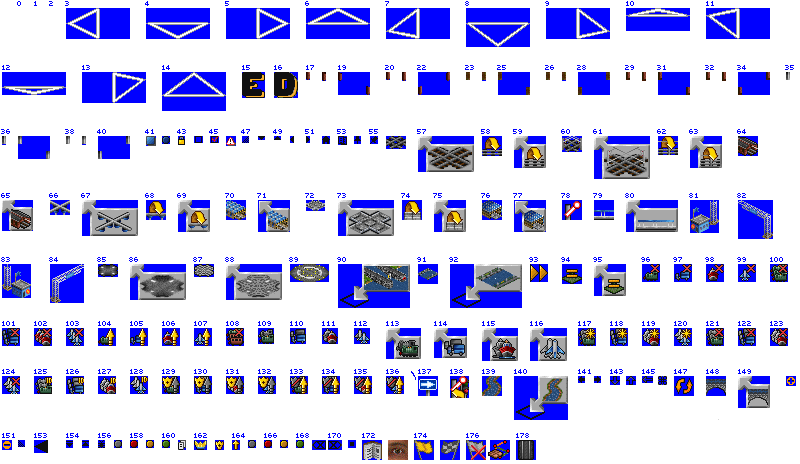
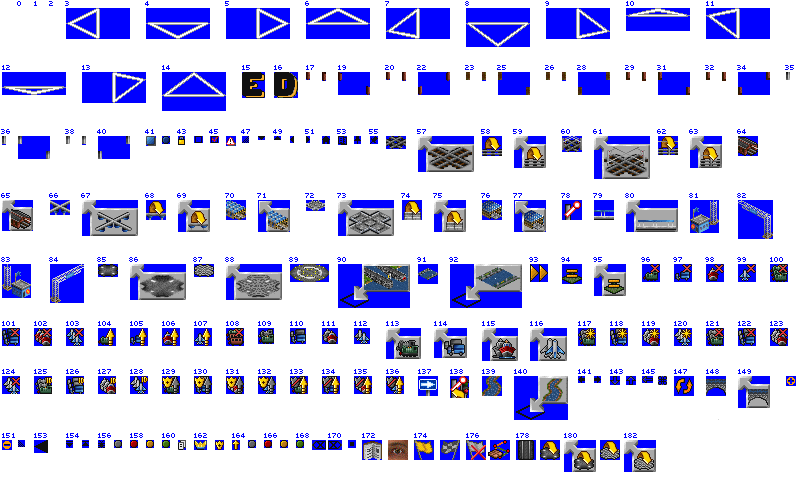
-Add: GUI sprites for convert road/tram (supermop)

diff --git a/src/table/roadtypes.h b/src/table/roadtypes.h
@@ -30,7 +30,7 @@ static const RoadtypeInfo _original_roadtypes[] = {
 			SPR_IMG_BUS_STATION,
 			SPR_IMG_TRUCK_BAY,
 			SPR_IMG_ROAD_TUNNEL,
-			SPR_IMG_QUERY // TODO
+			SPR_IMG_CONVERT_ROAD,
 		},
 
 		{
@@ -41,7 +41,7 @@ static const RoadtypeInfo _original_roadtypes[] = {
 			SPR_CURSOR_BUS_STATION,
 			SPR_CURSOR_TRUCK_STATION,
 			SPR_CURSOR_TUNNEL_RAIL,
-			SPR_IMG_QUERY // TODO
+			SPR_CURSOR_CONVERT_ROAD,
 		},
 
 		/* strings */
@@ -112,7 +112,7 @@ static const RoadtypeInfo _original_roadtypes[] = {
 			SPR_IMG_BUS_STATION,
 			SPR_IMG_TRUCK_BAY,
 			SPR_IMG_ROAD_TUNNEL,
-			SPR_IMG_QUERY // TODO
+			SPR_IMG_CONVERT_ROAD,
 		},
 
 		{
@@ -123,7 +123,7 @@ static const RoadtypeInfo _original_roadtypes[] = {
 			SPR_CURSOR_BUS_STATION,
 			SPR_CURSOR_TRUCK_STATION,
 			SPR_CURSOR_TUNNEL_RAIL,
-			SPR_IMG_QUERY // TODO
+			SPR_CURSOR_CONVERT_ROAD,
 		},
 
 		/* strings */
@@ -197,7 +197,7 @@ static const RoadtypeInfo _original_tramtypes[] = {
 			SPR_IMG_BUS_STATION,
 			SPR_IMG_TRUCK_BAY,
 			SPR_IMG_ROAD_TUNNEL,
-			SPR_IMG_QUERY // TODO
+			SPR_IMG_CONVERT_TRAM,
 		},
 
 		{
@@ -208,7 +208,7 @@ static const RoadtypeInfo _original_tramtypes[] = {
 			SPR_CURSOR_BUS_STATION,
 			SPR_CURSOR_TRUCK_STATION,
 			SPR_CURSOR_TUNNEL_RAIL,
-			SPR_IMG_QUERY // TODO
+			SPR_CURSOR_CONVERT_TRAM,
 		},
 
 		/* strings */
@@ -279,7 +279,7 @@ static const RoadtypeInfo _original_tramtypes[] = {
 			SPR_IMG_BUS_STATION,
 			SPR_IMG_TRUCK_BAY,
 			SPR_IMG_ROAD_TUNNEL,
-			SPR_IMG_QUERY // TODO
+			SPR_IMG_CONVERT_TRAM,
 		},
 
 		{
@@ -290,7 +290,7 @@ static const RoadtypeInfo _original_tramtypes[] = {
 			SPR_CURSOR_BUS_STATION,
 			SPR_CURSOR_TRUCK_STATION,
 			SPR_CURSOR_TUNNEL_RAIL,
-			SPR_IMG_QUERY // TODO
+			SPR_CURSOR_CONVERT_TRAM,
 		},
 
 		/* strings */

diff --git a/src/table/sprites.h b/src/table/sprites.h
@@ -56,7 +56,7 @@ static const SpriteID SPR_LARGE_SMALL_WINDOW = 682;
 
 /** Extra graphic spritenumbers */
 static const SpriteID SPR_OPENTTD_BASE   = 4896;
-static const uint16 OPENTTD_SPRITE_COUNT = 176;
+static const uint16 OPENTTD_SPRITE_COUNT = 180;
 
 /* Halftile-selection sprites */
 static const SpriteID SPR_HALFTILE_SELECTION_FLAT = SPR_OPENTTD_BASE;
@@ -1334,6 +1334,11 @@ static const SpriteID SPR_IMG_VIEW_LOCATION  = SPR_OPENTTD_BASE + 170;
 static const SpriteID SPR_IMG_GOAL           = SPR_OPENTTD_BASE + 171;
 static const SpriteID SPR_IMG_GOAL_COMPLETED = SPR_OPENTTD_BASE + 172;
 static const SpriteID SPR_IMG_GOAL_BROKEN_REF= SPR_OPENTTD_BASE + 173;
+
+static const SpriteID SPR_IMG_CONVERT_ROAD           = SPR_OPENTTD_BASE + 176;
+static const CursorID SPR_CURSOR_CONVERT_ROAD        = SPR_OPENTTD_BASE + 177;
+static const SpriteID SPR_IMG_CONVERT_TRAM           = SPR_OPENTTD_BASE + 178;
+static const CursorID SPR_CURSOR_CONVERT_TRAM        = SPR_OPENTTD_BASE + 179;
 
 /* intro_gui.cpp, genworld_gui.cpp */
 static const SpriteID SPR_SELECT_TEMPERATE           = 4882;
